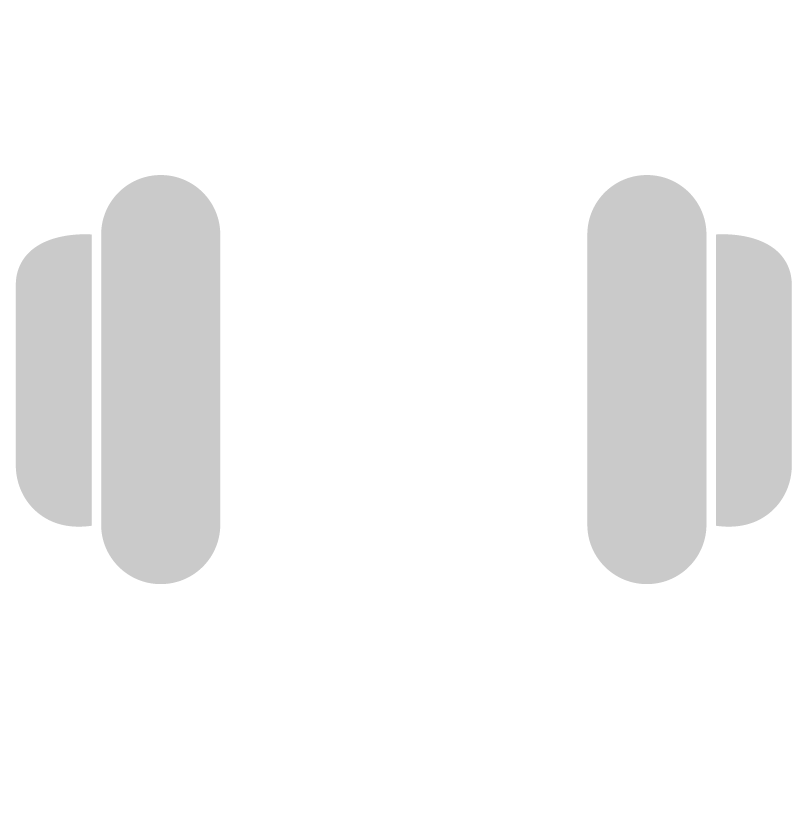
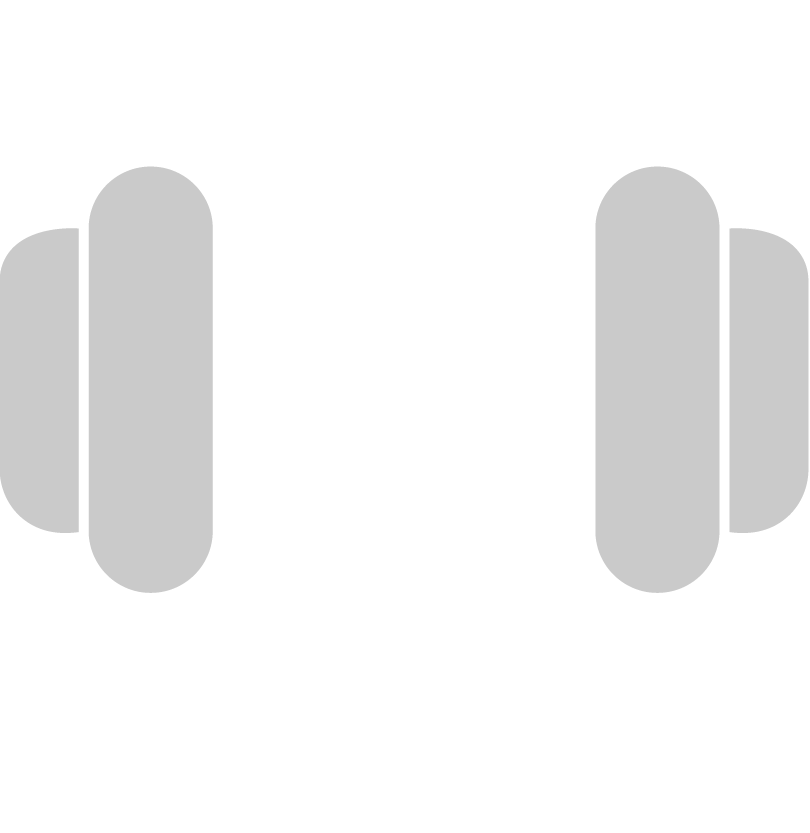
w

diff --git a/ui  homepage/age form style.css b/ui  homepage/age form style.css
@@ -139,67 +139,75 @@ h2 {
 
 /* Specific deco images with different animation durations */
 .deco1 {
-    top: 5rem; /* 90px from the top */
-    left: 2rem; /* 40px from the left */
-    width: 80px; /* Adjust width as needed */
-    height: 80px; /* Adjust height as needed */
+    top: 6rem; /* 90px from the top */
+    left: 6rem; /* 40px from the left */
+    width: 150px; /* Adjust width as needed */
+    height: 150px; /* Adjust height as needed */
     animation-duration: 2s; /* Faster animation */
 }
 
 .deco2 {
-    top: 15rem; /* 200px from the top */
-    left: 10rem; /* 200px from the left */
-    width: 60px; /* Adjust width as needed */
-    height: 60px; /* Adjust height as needed */
+    top: 16em; /* 200px from the top */
+    left: 22rem; /* 200px from the left */
+    width: 70px; /* Adjust width as needed */
+    height: 70px; /* Adjust height as needed */
     animation-duration: 4s; /* Slower animation */
 }
 
 .deco3 {
     top: 25rem; /* 300px from the top */
-    left: 2rem; /* 100px from the left */
-    width: 105px; /* Adjust width as needed */
-    height: 105px; /* Adjust height as needed */
+    left: 5rem; /* 100px from the left */
+    width: 110px; /* Adjust width as needed */
+    height: 110px; /* Adjust height as needed */
     animation-duration: 3s; /* Medium speed animation */
 }
 
 .deco4 {
-    top: 40rem; /* 300px from the top */
-    left: 3.5rem; /* 100px from the left */
-    width: 60px; /* Adjust width as needed */
-    height: 60px; /* Adjust height as needed */
+    top: 35rem; /* 300px from the top */
+    left: 16rem; /* 100px from the left */
+    width: 200px; /* Adjust width as needed */
+    height: 200px; /* Adjust height as needed */
     animation-duration: 5s; /* Medium speed animation */
 }
 
 .deco5 {
-    top: 5rem; /* 90px from the top */
-    right: 2rem; /* 40px from the left */
-    width: 60px; /* Adjust width as needed */
-    height: 60px; /* Adjust height as needed */
+    top: 6rem; /* 90px from the top */
+    right: 19em; /* 40px from the left */
+    width: 100px; /* Adjust width as needed */
+    height: 100px; /* Adjust height as needed */
     animation-duration: 2s; /* Faster animation */
 }
 
 .deco6 {
-    top: 20rem; /* 200px from the top */
-    right: 10rem; /* 200px from the left */
-    width: 75px; /* Adjust width as needed */
-    height: 75px; /* Adjust height as needed */
+    top: 25rem; /* 200px from the top */
+    right: 13rem; /* 200px from the left */
+    width: 150px; /* Adjust width as needed */
+    height: 150px; /* Adjust height as needed */
     animation-duration: 4s; /* Slower animation */
 }
 
 .deco7 {
-    top: 25rem; /* 300px from the top */
-    right: 2rem; /* 100px from the left */
+    top: 20rem; /* 300px from the top */
+    right: 10rem; /* 100px from the left */
     width: 55px; /* Adjust width as needed */
     height: 55px; /* Adjust height as needed */
     animation-duration: 3s; /* Medium speed animation */
 }
 
 .deco8 {
-    top: 40rem; /* 300px from the top */
+    top: 42rem; /* 300px from the top */
     right: 3.5rem; /* 100px from the left */
     width: 95px; /* Adjust width as needed */
     height: 95px; /* Adjust height as needed */
     animation-duration: 5s; /* Medium speed animation */
+}
+
+.deco9 {
+    top: 40rem; /* 300px from the top */
+    right: 28rem; /* 100px from the left */
+    width: 55px; /* Adjust width as needed */
+    height: 55px; /* Adjust height as needed */
+    animation-duration: 3s; /* Medium speed animation */
 }
 
 /* Keyframes for up and down movement */

diff --git a/ui  homepage/age form.html b/ui  homepage/age form.html
@@ -25,6 +25,7 @@
     <img src="images/deco.png" alt="Decoration" class="deco deco6">
     <img src="images/deco.png" alt="Decoration" class="deco deco7">
     <img src="images/deco.png" alt="Decoration" class="deco deco8">
+    <img src="images/deco.png" alt="Decoration" class="deco deco9">
 
     <img src="images/char 7.png" alt="Character 7" class="resized-char"> <!-- Ensure the path is correct -->
 
